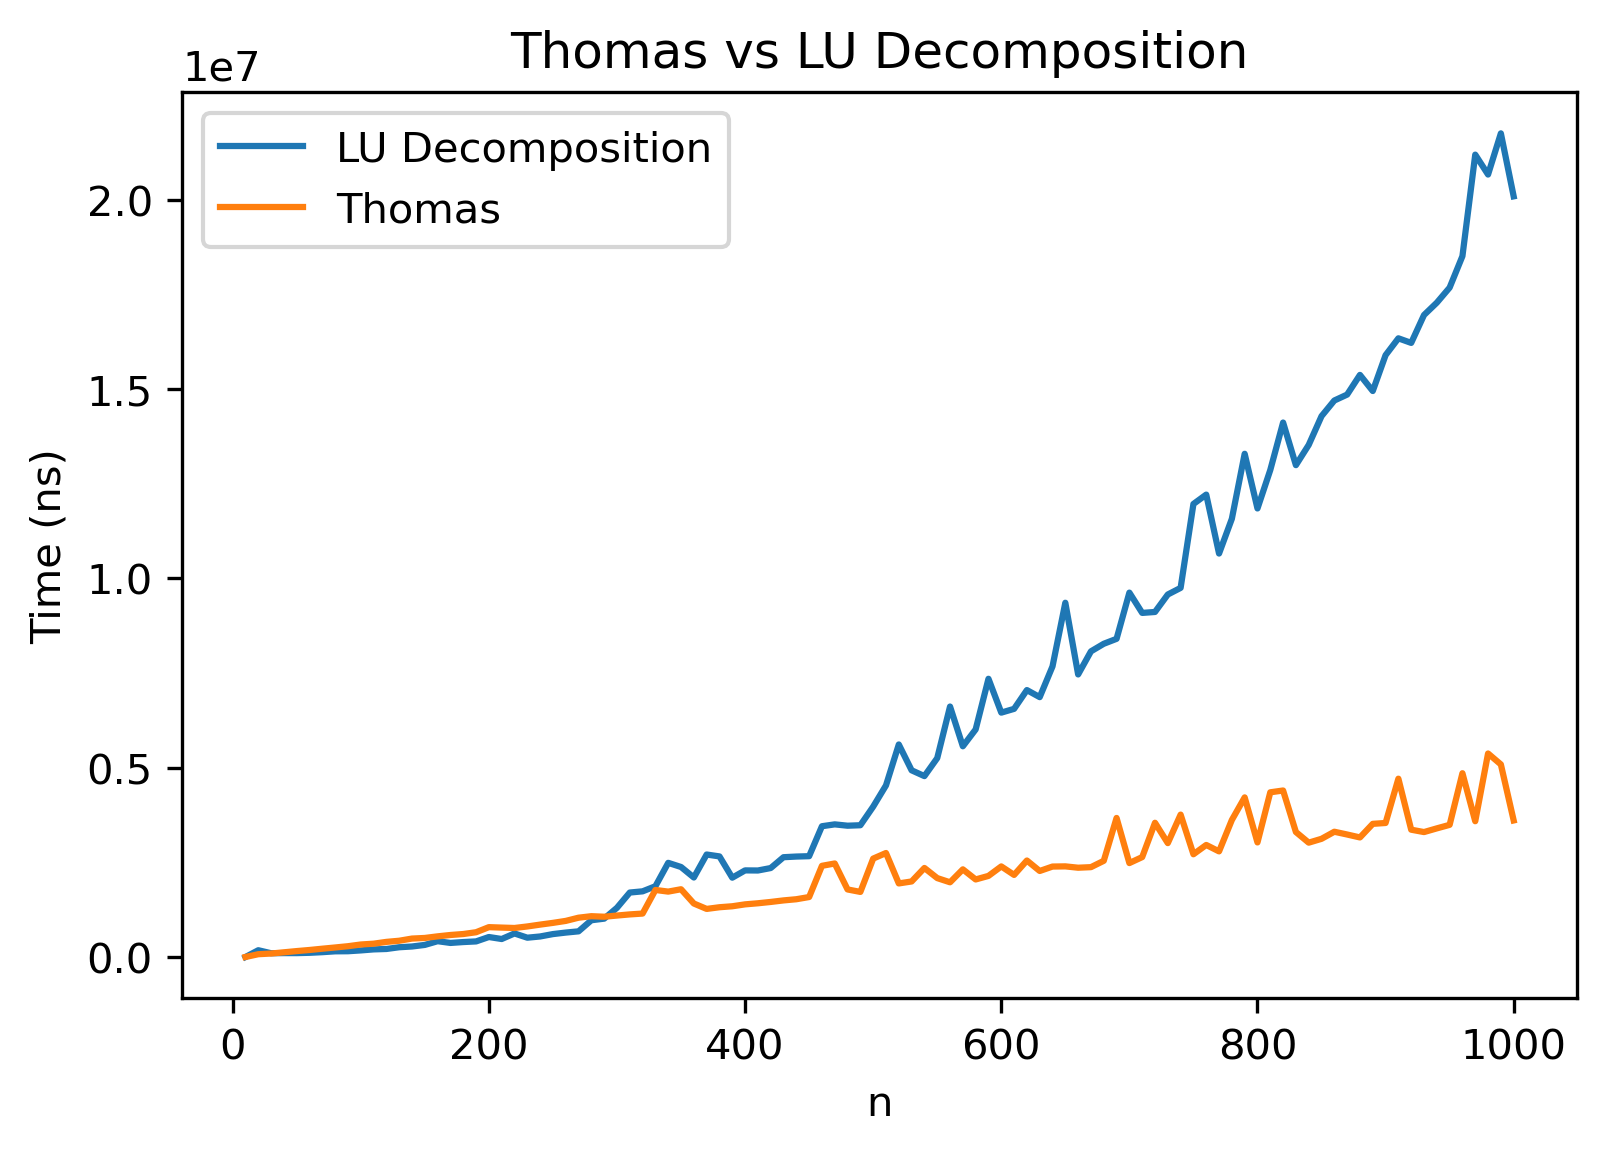
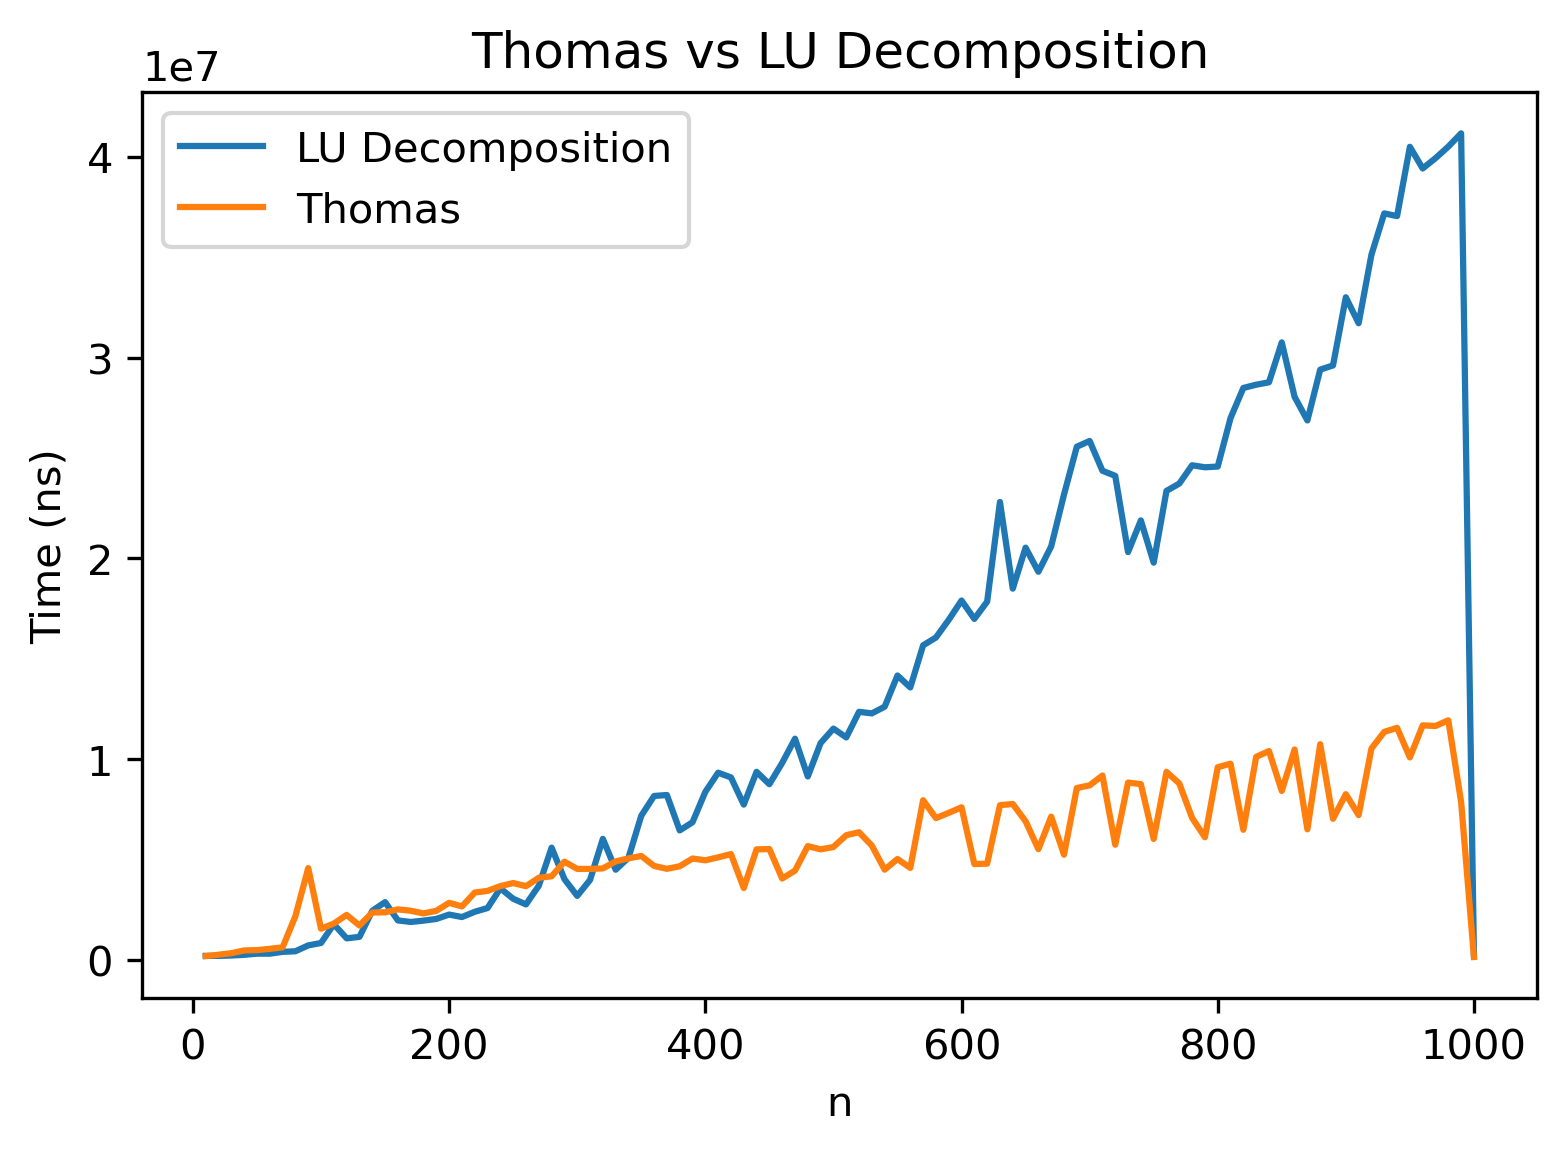
1D poisson update for graphs mostly

diff --git a/poisson/poisson_1d.py b/poisson/poisson_1d.py
@@ -77,7 +77,9 @@ b=1
 f= lambda x: 12*x**2+8 #forcing
 g= lambda x: x**4+4*x**2-6*x+2 #exact for endpoints
 
-n = np.arange(10,1001,10)
+nstop = 1000
+
+n = np.arange(10,nstop+1,10)
 time_lusolve = np.zeros([n.size,1])
 time_thomas = np.zeros([n.size,1])
 for i in n:
@@ -90,14 +92,14 @@ for i in n:
     p, l, u = sp.linalg.lu(A)
     y = sp.linalg.solve_triangular(l, p@rhs, lower=True)
     lusoln = sp.linalg.solve_triangular(u, y)
-    time_lusolve[int(i/10)] = perf_counter_ns() - start_lusolve
+    time_lusolve[np.where(n==i)[0][0]-1] = perf_counter_ns() - start_lusolve
 #    print('LU decomposition time: ', time_lusolve, 'ns')
     
     
     start_thomas = perf_counter_ns()
     thomassoln = thomas(A,rhs) #fix to correct solver
     #uthomas = uthomas[:,0]
-    time_thomas[int(i/10)] = perf_counter_ns() - start_thomas
+    time_thomas[np.where(n==i)[0][0]-1] = perf_counter_ns() - start_thomas
 #    print('Thomas time: ', time_thomas, 'ns')
 
 plt.title('Thomas vs LU Decomposition')
@@ -110,26 +112,52 @@ plt.show()
 
 #Probably want to implement a way to solve for multiple n's and then visualize the difference in times as n increases.
 #Some n's will be too small (e.g. n<500) but I don't know when you start seeing differences
-n_test = 500
+nsingle = 500
+
+x,rhs,A=poisson(a, b, nsingle, f, g)
+    
+#If we use linalg.solve, we need to understand how it works. Currently I think it uses an LU factorization
+start_lusolvesingle = perf_counter_ns()
+p, l, u = sp.linalg.lu(A)
+y = sp.linalg.solve_triangular(l, p@rhs, lower=True)
+lusoln = sp.linalg.solve_triangular(u, y)
+time_lusolvesingle = perf_counter_ns() - start_lusolvesingle
+#    print('LU decomposition time: ', time_lusolve, 'ns')
+    
+    
+start_thomassingle = perf_counter_ns()
+thomassoln_single = thomas(A,rhs) #fix to correct solver
+    #uthomas = uthomas[:,0]
+time_thomassingle = perf_counter_ns() - start_thomassingle
+#    print('Thomas time: ', time_thomas, 'ns')
+
+n_test = 1000
 x_test = np.linspace(a,b,n_test)
 
 interp_thomas = np.zeros([n_test,1])
 for i in range(0,n_test):
-    interp_thomas[i] = np.interp(x_test[i],x,thomassoln)
+    interp_thomas[i] = np.interp(x_test[i],x,thomassoln_single)
     
 g = (g(x_test)) 
-error = np.zeros([n_test,1])   
+abs_error = np.zeros([n_test,1])   
 for i in range(0,n_test):
-    error[i] = abs(interp_thomas[i] - g[i])
+    abs_error[i] = abs(interp_thomas[i] - g[i])
+ 
+rel_error = np.zeros([n_test,1])    
+for i in range(0,n_test):
+    rel_error[i] = abs(abs_error[i,0]/g[i])  
 
 #plot solutions
-plt.plot(x,thomassoln,'--') #calculated
-plt.plot(x_test,g)
+plt.plot(x_test,g, label='g(x)')
+plt.plot(x_test,interp_thomas,'--', label = 'Thomas Appproximation') #calculated
 plt.title('Actual Function vs Finite Diff')
-plt.legend(["Finite","Actual"])
+plt.xlabel('x')
+plt.legend()
 plt.show()
 
 #plot log error
-plt.plot(x_test,np.log10(error))
+plt.plot(x_test,np.log10(abs_error))
+plt.xlabel('x')
+plt.ylabel('log10 Error)')
 plt.title('Log10 Error')
 plt.show()
